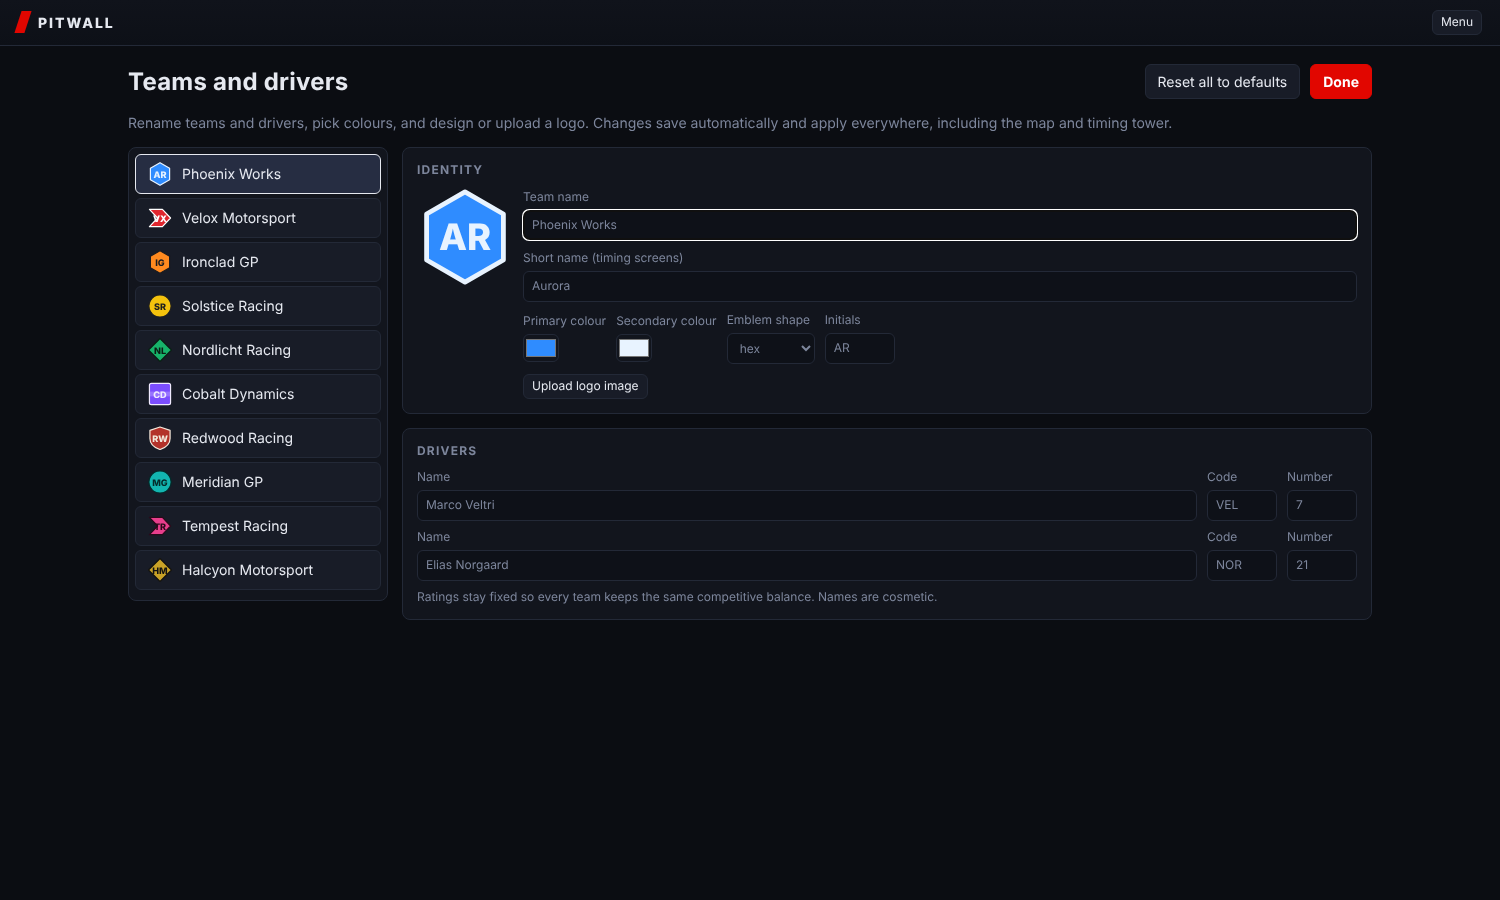
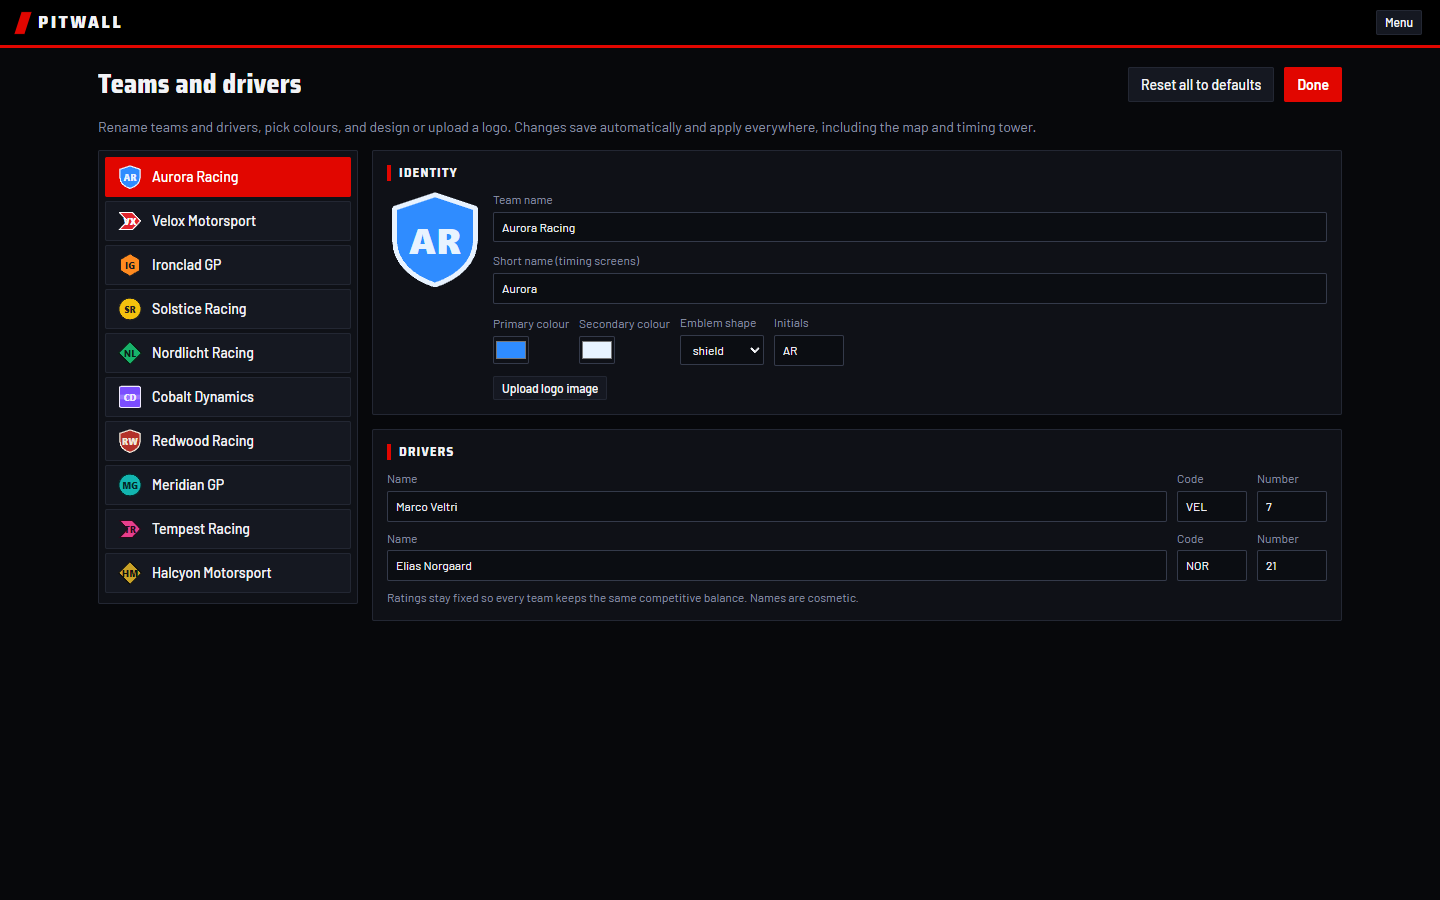
The hub, calendar, results and editor take the same look, with new screenshots.
The design notes set out the type, colour and shape rules.
243 tests.

Changed region(s): [[0.0, 0.0, 1.0, 0.6844], [0.7812, 0.5289, 0.9062, 0.6533], [0.875, 0.2489, 0.9062, 0.28]]

diff --git a/src/ui/WeekendHub.tsx b/src/ui/WeekendHub.tsx
@@ -16,6 +16,7 @@ import { PlanEditor } from './PlanEditor.tsx';
 import { Standings } from './Standings.tsx';
 import { TeamLogo } from './TeamLogo.tsx';
 import { TrackOutline } from './TrackOutline.tsx';
+import { cssVar } from './colour.ts';
 
 export interface RaceSetup {
   trackId: string;
@@ -87,17 +88,17 @@ export function WeekendHub({ career, teams, onStart, onCalendar }: Props) {
     <div className="page stack">
       <div className="row wrap">
         <div style={{ flex: 1 }}>
-          <div className="muted" style={{ fontSize: 12, textTransform: 'uppercase', letterSpacing: '0.1em' }}>
+          <div className="muted label-caps">
             Round {round + 1} of {career.calendar.length}
           </div>
-          <h2 style={{ fontSize: 26 }}>{trackDef.name}</h2>
+          <h2 className="page-title">{trackDef.name}</h2>
           <div className="muted">{trackDef.location}</div>
         </div>
         <button className="btn" onClick={onCalendar}>Season calendar</button>
         <TeamLogo team={playerTeam} size={44} />
         <div>
           <b>{playerTeam.name}</b>
-          <div className="muted" style={{ fontSize: 12 }}>Team principal</div>
+          <div className="muted small">Team principal</div>
         </div>
       </div>
 
@@ -128,12 +129,12 @@ export function WeekendHub({ career, teams, onStart, onCalendar }: Props) {
               </span>
               <span className="muted num">{laps} laps</span>
             </div>
-            {quali && <div className="muted" style={{ fontSize: 12, marginTop: 6 }}>Locked once qualifying has run.</div>}
+            {quali && <div className="muted small" style={{ marginTop: 6 }}>Locked once qualifying has run.</div>}
           </div>
 
           <div className="panel">
             <h3>Weather forecast</h3>
-            <div className="muted" style={{ fontSize: 12, marginBottom: 6 }}>
+            <div className="muted small" style={{ marginBottom: 6 }}>
               It rains at some point in about {Math.round(rainChance * 100)}% of races here. Chance of rain in each quarter of this race:
             </div>
             <div className="forecast" style={{ gridTemplateColumns: 'repeat(4, 1fr)' }} role="list" aria-label="Rain forecast by quarter of the race">
@@ -145,7 +146,7 @@ export function WeekendHub({ career, teams, onStart, onCalendar }: Props) {
                 </div>
               ))}
             </div>
-            <div className="muted" style={{ fontSize: 12, marginTop: 6 }}>
+            <div className="muted small" style={{ marginTop: 6 }}>
               {wetStart
                 ? 'It is raining at the start: intermediates or full wets can be chosen as the start tyre.'
                 : 'Forecasts further ahead are less certain. In the race, the next half hour is shown in 5-minute steps.'}
@@ -158,7 +159,7 @@ export function WeekendHub({ career, teams, onStart, onCalendar }: Props) {
         <div className="stack">
           <div className="panel">
             <div className="row" style={{ marginBottom: 8 }}>
-              <h3 style={{ margin: 0, flex: 1 }}>Qualifying</h3>
+              <h3 className="panel-head" style={{ margin: 0, flex: 1 }}>Qualifying</h3>
               <button className="btn primary" onClick={runQuali} disabled={!!quali}>
                 {quali ? 'Completed' : 'Run qualifying'}
               </button>
@@ -178,7 +179,7 @@ export function WeekendHub({ career, teams, onStart, onCalendar }: Props) {
                         <td className="num">{r.position}</td>
                         <td>
                           <span className="team-chip">
-                            <span className="swatch" style={{ background: info.team.colors.primary }} />
+                            <span className="swatch" style={cssVar('--team', info.team.colors.primary)} />
                             {info.name}
                           </span>
                         </td>
@@ -202,8 +203,8 @@ export function WeekendHub({ career, teams, onStart, onCalendar }: Props) {
             return (
               <div className="panel" key={id}>
                 <div className="row" style={{ marginBottom: 8 }}>
-                  <span className="swatch" style={{ background: playerTeam.colors.primary }} />
-                  <h3 style={{ margin: 0, flex: 1 }}>Strategy: {driver.name}</h3>
+                  <span className="swatch" style={cssVar('--team', playerTeam.colors.primary)} />
+                  <h3 className="panel-head" style={{ margin: 0, flex: 1 }}>Strategy: {driver.name}</h3>
                   {quali && <span className="muted num">grid P{quali.grid.indexOf(id) + 1}</span>}
                 </div>
                 <PlanEditor
@@ -218,7 +219,7 @@ export function WeekendHub({ career, teams, onStart, onCalendar }: Props) {
             );
           })}
 
-          <button className="btn primary" style={{ padding: '12px 16px', fontSize: 16 }} onClick={start} disabled={!quali}>
+          <button className="btn primary big" onClick={start} disabled={!quali}>
             {quali ? 'Go to the grid' : 'Run qualifying first'}
           </button>
         </div>

diff --git a/src/App.tsx b/src/App.tsx
@@ -16,6 +16,7 @@ import { TeamEditor } from './ui/TeamEditor.tsx';
 import { TeamLogo } from './ui/TeamLogo.tsx';
 import { WeekendHub } from './ui/WeekendHub.tsx';
 import type { RaceSetup } from './ui/WeekendHub.tsx';
+import { cssVar } from './ui/colour.ts';
 
 type Screen =
   | { name: 'menu' }
@@ -63,7 +64,7 @@ function Menu({
       )}
 
       <div className="row">
-        <h2 style={{ flex: 1, fontSize: 18 }}>{career ? 'Or start a new season' : 'Choose your team'}</h2>
+        <h2 className="section-title" style={{ flex: 1 }}>{career ? 'Or start a new season' : 'Choose your team'}</h2>
         <button className="btn" onClick={onTeams}>Edit teams, drivers and logos</button>
       </div>
       <div className="team-cards">
@@ -73,14 +74,14 @@ function Menu({
             <button
               key={t.id}
               className={`team-card ${pick === t.id ? 'sel' : ''}`}
-              style={{ borderLeftColor: t.colors.primary }}
+              style={cssVar('--team', t.colors.primary)}
               onClick={() => setPick(t.id)}
               aria-pressed={pick === t.id}
             >
               <TeamLogo team={t} size={44} />
               <div style={{ flex: 1, minWidth: 0 }}>
                 <b>{t.name}</b>
-                <div className="muted" style={{ fontSize: 12 }}>{t.drivers[0].name} · {t.drivers[1].name}</div>
+                <div className="muted small">{t.drivers[0].name} · {t.drivers[1].name}</div>
                 <div className="bars">
                   <span>Car</span>
                   <div className="bar"><i style={{ width: `${carOverall(c)}%` }} /></div>
@@ -191,7 +192,7 @@ export function App() {
     case 'season':
       body = career ? (
         <div className="page stack">
-          <h2 style={{ fontSize: 26 }}>Season complete</h2>
+          <h2 className="page-title">Season complete</h2>
           <Standings results={career.results} teams={teams} playerTeamId={career.playerTeamId} />
           <div className="row">
             <button className="btn primary" onClick={() => setScreen({ name: 'menu' })}>Back to menu</button>
@@ -220,7 +221,7 @@ export function App() {
   }
 
   return (
-    <div className="app">
+    <div className={screen.name === 'race' ? 'app fixed' : 'app'}>
       <header className="topbar">
         <span className="brand">Pitwall</span>
         <span className="spacer" />

diff --git a/src/ui/Calendar.tsx b/src/ui/Calendar.tsx
@@ -46,7 +46,7 @@ export function Calendar({ career, teams, onBack }: Props) {
   return (
     <div className="page stack">
       <div className="row wrap">
-        <h2 style={{ flex: 1, fontSize: 26 }}>Season calendar</h2>
+        <h2 className="page-title" style={{ flex: 1 }}>Season calendar</h2>
         <button className="btn" onClick={onBack}>Back</button>
       </div>
       <ol className="calendar">
@@ -60,13 +60,13 @@ export function Calendar({ career, teams, onBack }: Props) {
                 <TrackOutline track={track} height={110} />
               </div>
               <div className="stack" style={{ gap: 4, minWidth: 0 }}>
-                <div className="muted" style={{ fontSize: 12, textTransform: 'uppercase', letterSpacing: '0.1em' }}>
+                <div className="muted label-caps">
                   Round {round + 1}
                   {round === next && ' · next'}
                 </div>
-                <b style={{ fontSize: 16 }}>{def.name}</b>
-                <div className="muted" style={{ fontSize: 13 }}>{def.location}</div>
-                {def.summary && <div style={{ fontSize: 13 }}>{def.summary}</div>}
+                <b className="round-name">{def.name}</b>
+                <div className="muted note">{def.location}</div>
+                {def.summary && <div className="note">{def.summary}</div>}
                 <div className="calendar-facts">
                   <span><b className="num">{(track.length / 1000).toFixed(2)}</b> km</span>
                   <span><b className="num">{track.refAvgKph.toFixed(0)}</b> km/h average</span>
@@ -75,7 +75,7 @@ export function Calendar({ career, teams, onBack }: Props) {
                   <span>Passing <b>{passingWord(def)}</b></span>
                 </div>
                 {summary && (
-                  <div style={{ fontSize: 13 }}>
+                  <div className="note">
                     Won by {summary.winnerCarId ? driverName(summary.winnerCarId) : 'nobody'}.{' '}
                     {summary.playerBest !== null ? `Your best: ${ordinal(summary.playerBest)}, ${summary.playerPoints} points.` : 'Both your cars retired.'}
                   </div>

diff --git a/src/ui/ResultsScreen.tsx b/src/ui/ResultsScreen.tsx
@@ -5,6 +5,7 @@ import { trackById } from '../data/tracks.ts';
 import type { Career } from '../state/season.ts';
 import { isSeasonOver } from '../state/season.ts';
 import { Standings } from './Standings.tsx';
+import { cssVar } from './colour.ts';
 
 interface Props {
   career: Career;
@@ -28,7 +29,7 @@ export function ResultsScreen({ career, teams, rows, trackId, laps, onContinue }
     <div className="page stack">
       <div className="row wrap">
         <div style={{ flex: 1 }}>
-          <h2 style={{ fontSize: 24 }}>{track.name} results</h2>
+          <h2 className="page-title">{track.name} results</h2>
           <div className="muted">
             Round {career.results.length} of {career.calendar.length} · {laps} laps{winner ? ` · won by ${winner.name} (${winner.team.shortName})` : ''}
           </div>
@@ -68,7 +69,7 @@ export function ResultsScreen({ career, teams, rows, trackId, laps, onContinue }
                     <td className="num">{r.finished ? r.position : '-'}</td>
                     <td>
                       <span className="team-chip">
-                        <span className="swatch" style={{ background: info.team.colors.primary }} />
+                        <span className="swatch" style={cssVar('--team', info.team.colors.primary)} />
                         {info.name}
                         {r.penaltyS > 0 && <span className="bad num"> +{r.penaltyS}s</span>}
                       </span>
@@ -83,7 +84,7 @@ export function ResultsScreen({ career, teams, rows, trackId, laps, onContinue }
               })}
             </tbody>
           </table>
-          <div className="muted" style={{ fontSize: 12, marginTop: 8 }}>Purple marks the fastest lap (one extra point if the driver finishes in the top ten).</div>
+          <div className="muted small" style={{ marginTop: 8 }}>Purple marks the fastest lap (one extra point if the driver finishes in the top ten).</div>
         </div>
         <Standings results={career.results} teams={teams} playerTeamId={career.playerTeamId} />
       </div>

diff --git a/src/ui/Standings.tsx b/src/ui/Standings.tsx
@@ -3,6 +3,7 @@ import { driverStandings, teamStandings } from '../state/season.ts';
 import type { RaceRecord } from '../state/season.ts';
 import type { TeamDef } from '../engine/types.ts';
 import { TeamLogo } from './TeamLogo.tsx';
+import { cssVar } from './colour.ts';
 
 interface Props {
   results: readonly RaceRecord[];
@@ -21,7 +22,7 @@ export function Standings({ results, teams, playerTeamId }: Props) {
   return (
     <div className="panel">
       <div className="row" style={{ marginBottom: 8 }}>
-        <h3 style={{ margin: 0, flex: 1 }}>Championship</h3>
+        <h3 className="panel-head" style={{ margin: 0, flex: 1 }}>Championship</h3>
         <span className="btn-group">
           <button className={`btn small ${tab === 'drivers' ? 'active' : ''}`} onClick={() => setTab('drivers')}>Drivers</button>
           <button className={`btn small ${tab === 'teams' ? 'active' : ''}`} onClick={() => setTab('teams')}>Teams</button>
@@ -48,7 +49,7 @@ export function Standings({ results, teams, playerTeamId }: Props) {
                     <td className="num muted">{i + 1}</td>
                     <td>
                       <span className="team-chip">
-                        <span className="swatch" style={{ background: team.colors.primary }} />
+                        <span className="swatch" style={cssVar('--team', team.colors.primary)} />
                         {drv.name} <span className="muted">{team.shortName}</span>
                       </span>
                     </td>

diff --git a/src/ui/TeamEditor.tsx b/src/ui/TeamEditor.tsx
@@ -71,14 +71,14 @@ export function TeamEditor({ teams, onChange, onReset, onClose }: Props) {
 
   return (
     <div className="page stack">
-      <div className="row">
-        <h2 style={{ flex: 1, fontSize: 24 }}>Teams and drivers</h2>
+      <div className="row wrap">
+        <h2 className="page-title" style={{ flex: 1 }}>Teams and drivers</h2>
         <button className="btn" onClick={onReset}>Reset all to defaults</button>
         <button className="btn primary" onClick={onClose}>Done</button>
       </div>
       <div className="muted">Rename teams and drivers, pick colours, and design or upload a logo. Changes save automatically and apply everywhere, including the map and timing tower.</div>
 
-      <div className="grid2" style={{ gridTemplateColumns: '260px minmax(0, 1fr)', alignItems: 'start' }}>
+      <div className="editor-grid">
         <div className="panel" style={{ padding: 6 }}>
           {teams.map((t) => (
             <button
@@ -187,7 +187,7 @@ export function TeamEditor({ teams, onChange, onReset, onClose }: Props) {
                 </div>
               );
             })}
-            <div className="muted" style={{ fontSize: 12 }}>Ratings stay fixed so every team keeps the same competitive balance. Names are cosmetic.</div>
+            <div className="muted small">Ratings stay fixed so every team keeps the same competitive balance. Names are cosmetic.</div>
           </div>
         </div>
       </div>

diff --git a/docs/DESIGN.md b/docs/DESIGN.md
@@ -108,6 +108,15 @@ Qualifying uses the same car and driver ratings as the race, plus three sources 
 
 The last tuning pass narrowed the car spread (`carSecPerPoint` 0.085 to 0.07), widened race-day form (`formSigma` 0.2 to 0.3), and taught the AI to save its tyres when nobody is within reach (`cruiseGap`), as real leaders do. Before it, pole won 65% of races, only 3% were won from fourth or lower, and the average margin was 15.2 s.
 
+## Look
+
+The interface borrows from television race graphics: near-black panels, one racing red, and a condensed display face.
+
+- Type: Saira Semi Condensed for titles, positions and driver codes; Barlow for text; JetBrains Mono for every time and gap. All three are bundled from Fontsource (SIL Open Font Licence), Latin characters only, about 164 KB in total.
+- Colour: every colour is a token in `src/styles.css`. Red marks rules, active controls and the selected car; a lighter red is used for red text, because the strong red is too dark for small text on near-black. Timing colours follow television graphics: purple for the fastest lap of the race, green for a driver's personal best, amber for the safety car and blue for rain. Text on a team colour picks black or white by brightness.
+- Shape: sharp corners throughout, with an angled cut on three things only: the race bar, status pills and the story team block.
+- Checked by `src/ui/theme.test.ts`: every text colour against every surface it sits on, at WCAG AA (4.5:1), and the ink on every default team colour. The test also fails if a colour is written into the stylesheet outside the token list.
+
 ## Testing
 
 `node --test` with native TypeScript type stripping, so there are no test dependencies. Covered: RNG, formatting, track geometry, strategy planner, race simulation (determinism, classification, lap and sector plausibility, fuel and wear bounds, car spacing, pit loss, safety car bunching, gaps after the flag, hazard scaling with distance, AI pace choices, auto mode, scoring), pit rejoin estimates, the key moments that pause a race, weather (rain frequency, forecast honesty and sharpness, wet tyre crossovers, wetting and drying, rival tyre changes, wet starts, a dry race unchanged by the weather model), and season standings.

diff --git a/README.md b/README.md
@@ -19,7 +19,7 @@ Pitwall is a real-time race simulation that has to be deterministic, plausible a
 - **Deterministic design:** a separate seeded random stream for each purpose.
 - **Calibration:** 300 headless races per tuning run, compared with real-race targets.
 - **React architecture:** a fixed 0.1 s step inside an animation loop, pausing on the exact step.
-- **Testing and CI:** 205 tests, with GitHub Actions running typecheck, lint, test, build and deploy.
+- **Testing and CI:** 243 tests, with GitHub Actions running typecheck, lint, test, build and deploy.
 - **Accessibility:** a keyboard-operable timing tower, ARIA meters and dialogs.
 
 ## What is in the game
